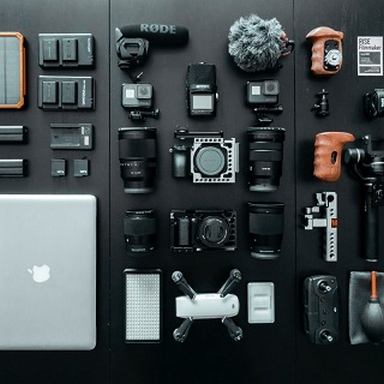
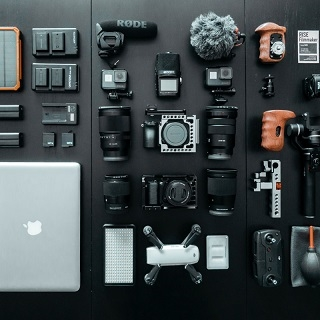
changement images

diff --git a/index.html b/index.html
@@ -140,7 +140,7 @@
 					</div>
 					<div class="row tight-width-whitespace portfolio-row">
 						<div class="col-sm-6">
-							<a href="#" data-lightbox="img/11.jpg" data-gallery-id="gallery-1" data-caption="Refonte d'un site web pour un journal local" data-frame="snapshot-lb"><img src="img/1.jpg" alt="paris web design logo agence web meilleure agence et refonte site web journal" class="img-responsive portfolio-thumb" /></a>
+							<a href="#" data-lightbox="img/11.jpg" data-gallery-id="gallery-1" data-caption="Refonte d'un site web pour un journal local" data-frame="snapshot-lb"><img src="img/resize_1.jpg" alt="paris web design logo agence web meilleure agence et refonte site web journal" class="img-responsive portfolio-thumb" /></a>
 							<h3 class="mg-md text-center">
 								Refonte d'un site web pour un journal local
 							</h3>
@@ -149,7 +149,7 @@
 							</p>
 						</div>
 						<div class="col-sm-6">
-							<a href="#" data-lightbox="img/22.jpg" data-gallery-id="gallery-1" data-caption="Création d'un site web pour photographes" data-frame="snapshot-lb"><img src="img/2.jpg" class="img-responsive portfolio-thumb" alt="paris web design logo agence web meilleure agence, Création d'un site web pour photographes" /></a>
+							<a href="#" data-lightbox="img/22.jpg" data-gallery-id="gallery-1" data-caption="Création d'un site web pour photographes" data-frame="snapshot-lb"><img src="img/resize_2.jpg" class="img-responsive portfolio-thumb" alt="paris web design logo agence web meilleure agence, Création d'un site web pour photographes" /></a>
 							<h3 class="mg-md text-center">
 								Création d'un site web pour photographes
 							</h3>
